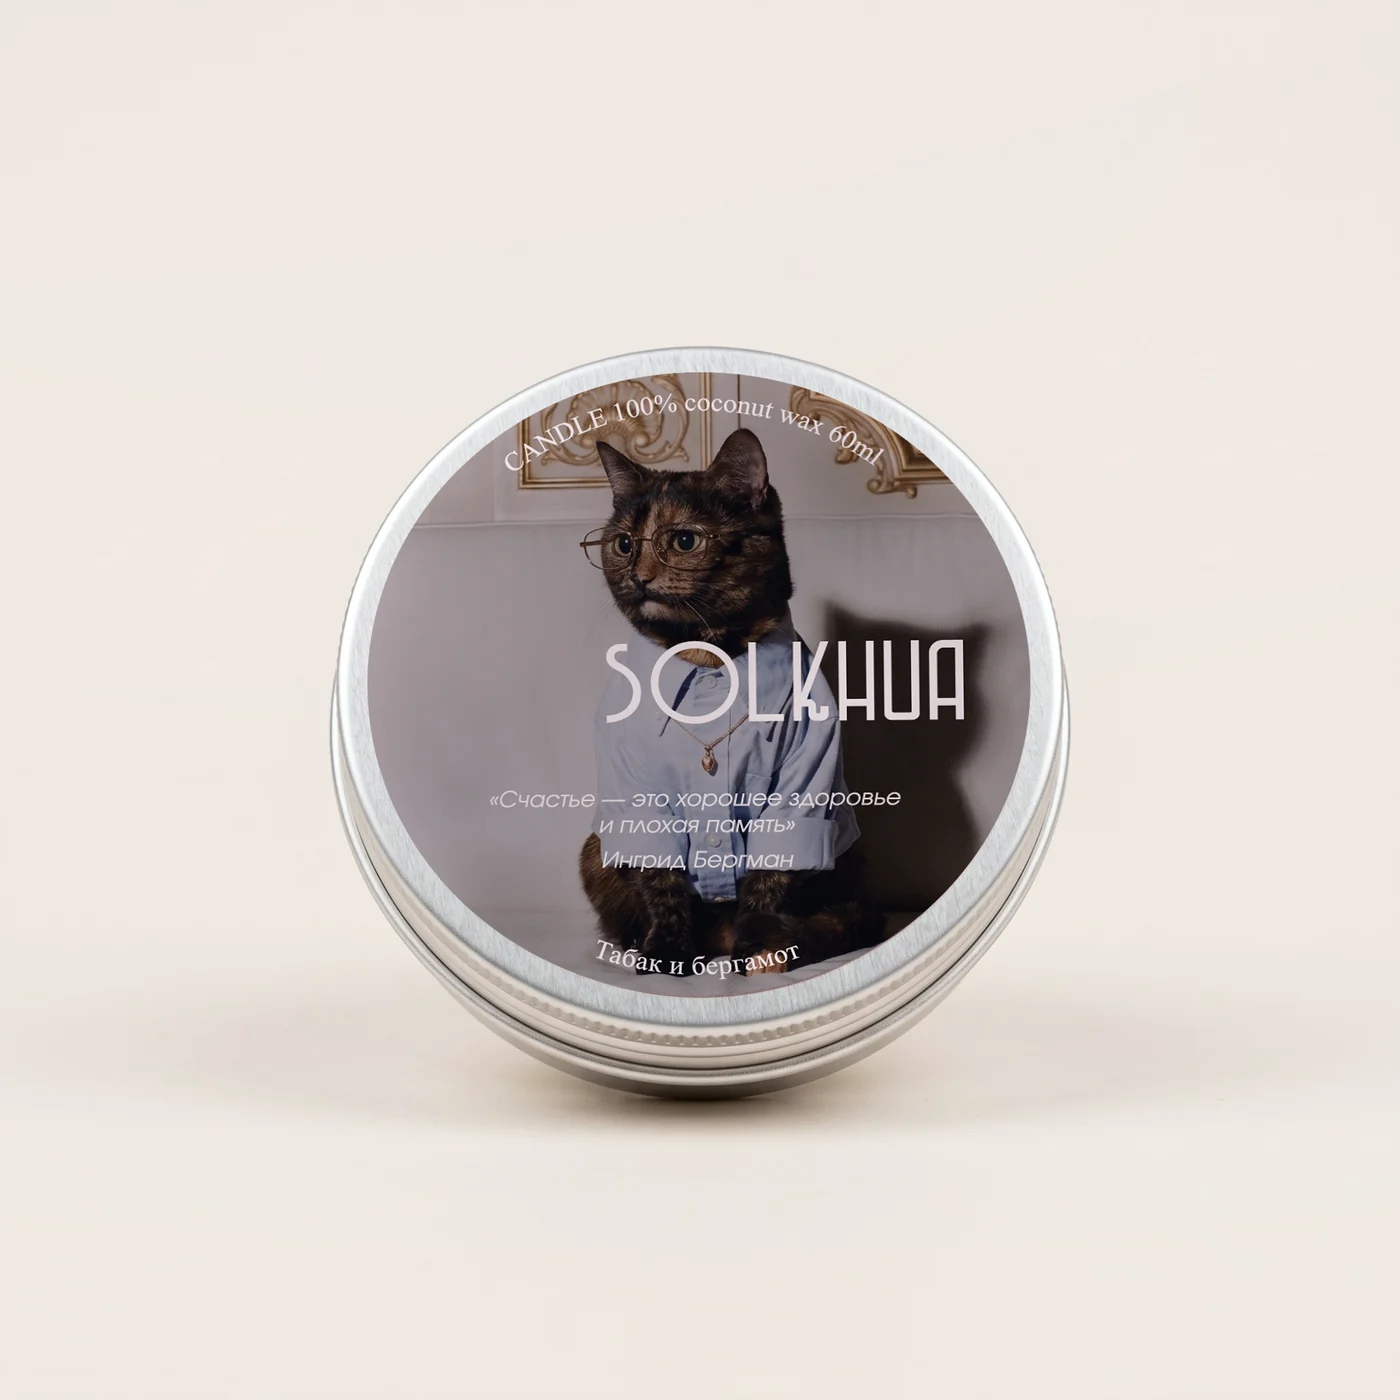
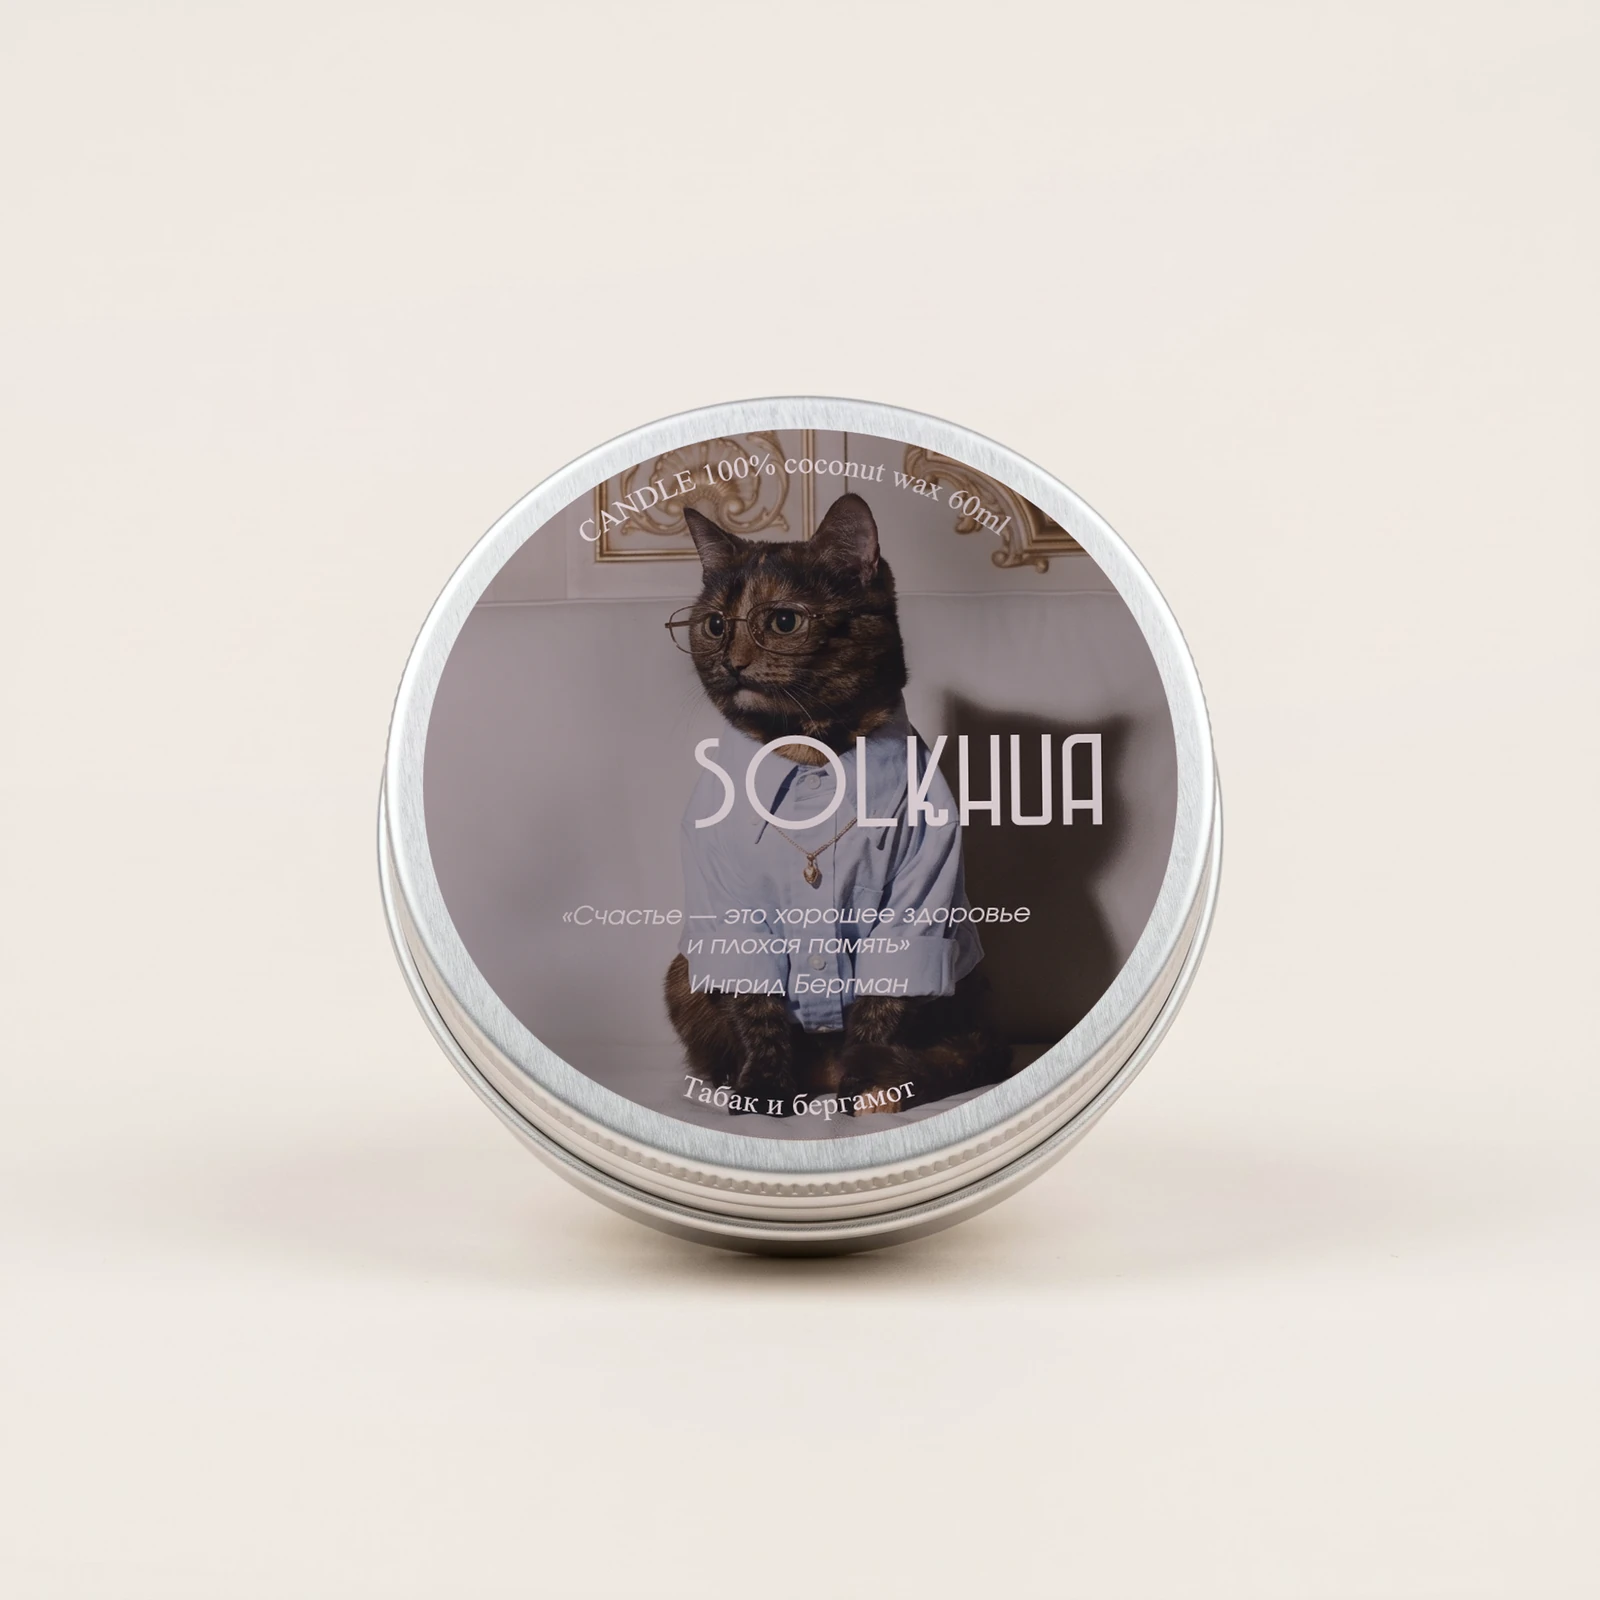
Fit labels to the exact printed boundary and add side and lit shots
- Fit each new label to the boundary of the label in the source photo
  (robust circle fit in label space) so no sliver of the old label shows
- Re-export all product shots at 1600px
- Add side view and plain burning candle to every product gallery; replace
  the lid-and-flame shot in the story and on the about page

Claude-Session: https://claude.ai/code/session_01UpckG1rPkLS9rV3dZvxG6U

Changed region(s): [[0.3379, 0.2457, 0.7064, 0.7064], [0.2764, 0.3686, 0.3071, 0.3993]]

diff --git a/assets/css/style.css b/assets/css/style.css
@@ -209,9 +209,9 @@ section{padding-block:clamp(64px,9vw,140px)}
 .frame{position:absolute;inset:0;opacity:0;transform:scale(1.08);transition:opacity .9s var(--ease),transform 1.4s var(--ease)}
 .frame.on{opacity:1;transform:none}
 .frame img{width:100%;height:100%;object-fit:cover}
-.frame-zoom img{transform:scale(1.25);transform-origin:58% 30%}
+.frame-zoom img{transform:scale(1.2);transform-origin:50% 40%}
 .frame-zoom.on img{animation:breathe 6s ease-in-out infinite}
-@keyframes breathe{50%{transform:scale(1.32)}}
+@keyframes breathe{50%{transform:scale(1.27)}}
 .flame{position:absolute;left:51.25%;top:40.75%;width:6.5%;height:14%;transform:translate(-50%,-100%);pointer-events:none}
 .flame i{position:absolute;inset:0;border-radius:50% 50% 50% 50%/62% 62% 38% 38%;background:radial-gradient(ellipse at 50% 80%,#fff 0 16%,#fff1c4 28%,#ffbf55 52%,rgba(255,140,40,0) 72%);filter:blur(.5px);transform-origin:50% 100%;animation:flick 1.7s ease-in-out infinite alternate}
 .flame::after{content:"";position:absolute;left:50%;top:62%;width:1000%;height:640%;transform:translate(-50%,-50%);background:radial-gradient(circle,rgba(255,196,110,.42),rgba(255,170,70,0) 60%);animation:glow 2.6s ease-in-out infinite alternate}

diff --git a/index.html b/index.html
@@ -61,7 +61,7 @@
         <div class="stage" id="stage">
           <div class="frame on"><img src="assets/img/product-palo-santo.webp" alt="Свеча в вакуумной упаковке" loading="lazy"></div>
           <div class="frame"><img src="assets/img/open-palo-santo.webp" alt="Открытая свеча «Пало санто» и крышка с этикеткой" loading="lazy"></div>
-          <div class="frame frame-zoom"><img src="assets/img/lit-apelsin.webp" alt="Пламя свечи крупным планом" loading="lazy"></div>
+          <div class="frame frame-zoom"><img src="assets/img/lit.webp" alt="Горящая свеча из кокосового воска" loading="lazy"></div>
           <div class="frame"><img src="assets/img/cats/care.webp" alt="Человек гладит уличного кота" loading="lazy"></div>
         </div>
         <div class="steps">

diff --git a/about.html b/about.html
@@ -40,7 +40,7 @@
 
   <section class="wrap">
     <div class="split-block rev">
-      <div class="media-r reveal-img"><img src="assets/img/lit-apelsin.webp" alt="Горящая свеча из кокосового воска" loading="lazy"></div>
+      <div class="media-r reveal-img"><img src="assets/img/lit.webp" alt="Горящая свеча из кокосового воска" loading="lazy"></div>
       <div class="reveal d1">
         <span class="eyebrow">Состав</span>
         <h2 style="margin-top:12px">Только кокосовый воск</h2>

diff --git a/assets/js/app.js b/assets/js/app.js
@@ -283,8 +283,7 @@
       const id = new URLSearchParams(location.search).get("id");
       const p = byId[id] || PRODUCTS[0];
       document.title = `${p.name} — SOLKHUA`;
-      const shots = [img(p.id), img(p.id, "closed"), img(p.id, "open"), img(p.id, "label")];
-      if (p.id === "apelsin-koritsa") shots.push("assets/img/lit-apelsin.webp");
+      const shots = [img(p.id), img(p.id, "closed"), img(p.id, "open"), "assets/img/side.webp", "assets/img/lit.webp", img(p.id, "label")];
       let qty = 1;
       $("#pdp").innerHTML = `
         <div class="gallery">

diff --git a/README.md b/README.md
@@ -33,7 +33,7 @@
   - `assets/img/closed-<id>.webp` — банка без упаковки, крышка закрыта (галерея, наведение в каталоге).
   - `assets/img/open-<id>.webp` — открытая банка, крышка рядом (галерея, блок «Откройте» на главной).
   - `assets/img/label-<id>.webp` — наклейка; исходники PNG лежат в `gemini-kit/labels/`.
-  - `assets/img/lit-apelsin.webp` — горящая свеча.
+  - `assets/img/side.webp` — вид сбоку (толщина банки), `assets/img/lit.webp` — горящая свеча; показываются в галерее каждой свечи.
   Наклейки на всех фото наложены из PNG-исходников с учётом перспективы, поэтому текст везде точный.
 - **Фото Петербурга и котов** — Unsplash (бесплатная лицензия Unsplash, указание авторов желательно):
   - `assets/img/spb/bridge.webp` — Ilia Bronskiy, https://unsplash.com (photo-1642021824052-920192524b19)
